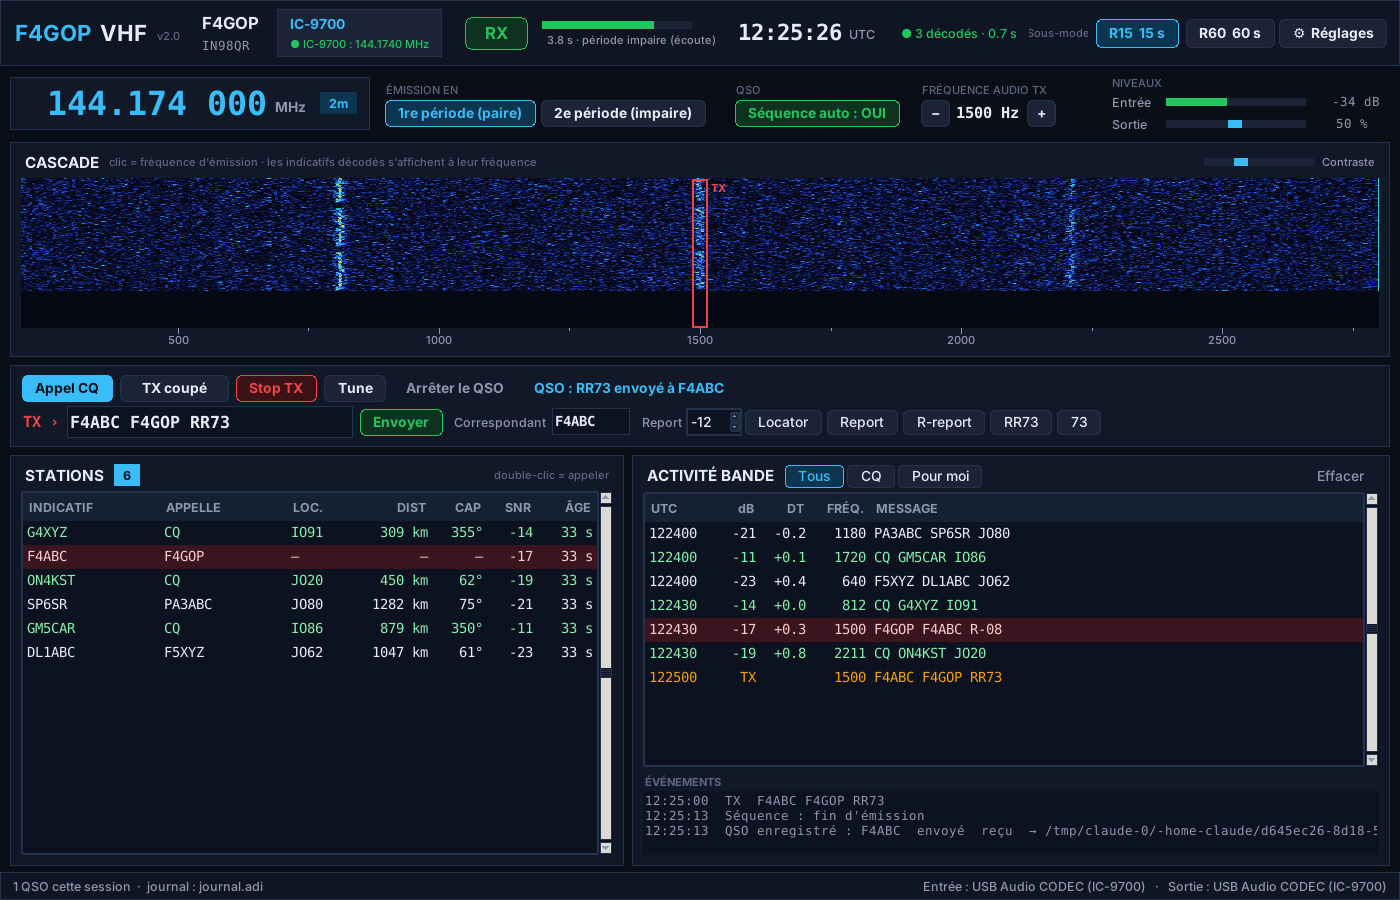
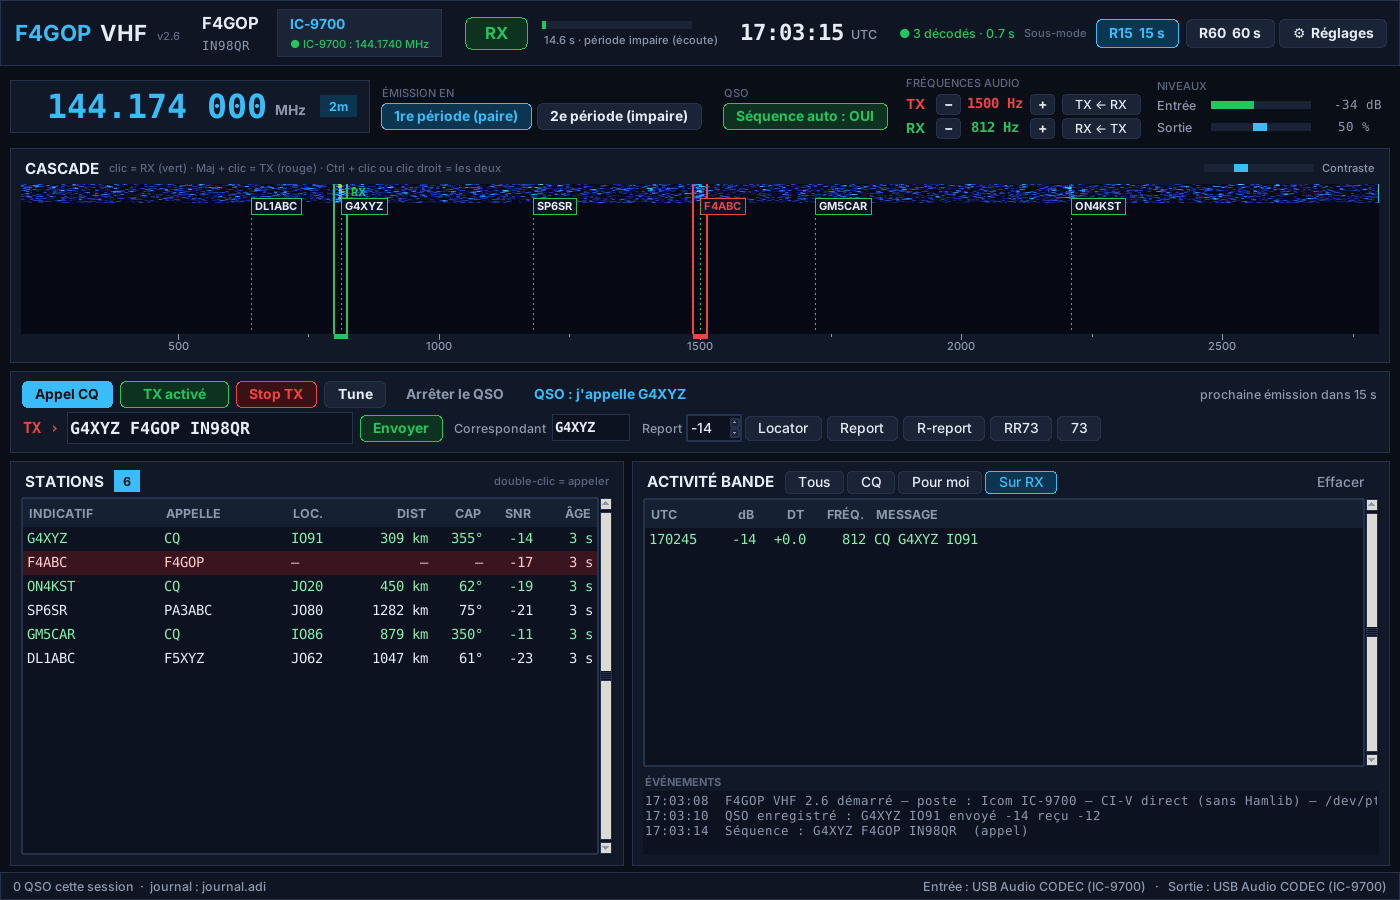
v2.6 : repères TX rouge et RX vert dans la cascade, comme WSJT-X
Clic = RX, Maj+clic = TX, Ctrl+clic ou clic droit = les deux ; double-clic
sur une station = RX sur elle ; boutons TX<-RX et RX<-TX ; filtre
« Sur RX » dans Activité bande.

Claude-Session: https://claude.ai/code/session_01BrhXni9kkUjUtnzQfaapJg

diff --git a/f4gop_vhf.py b/f4gop_vhf.py
@@ -37,7 +37,7 @@ try:
 except Exception:                                  # pas de carte son (tests)
     sd = None
 
-VERSION = "2.5"
+VERSION = "2.6"
 RETARD_MAX_TX = 1.2           # départ d'émission le plus tardif (s)
 TAMPON_S = 130                # secondes d'audio gardées en mémoire
 CASC_FMIN, CASC_FMAX = 200.0, 2800.0
@@ -45,7 +45,7 @@ FICHIER_REGLAGES = os.path.join(os.path.expanduser("~"), ".f4gop_vhf.json")
 
 REGLAGES_DEFAUT = {
     "indicatif": "F4GOP", "locator": "IN98QR", "sous_mode": "R15", "parite": 0,
-    "f_audio": 1500, "niveau": 0.5, "entree_son": "", "sortie_son": "",
+    "f_audio": 1500, "f_rx": 1500, "niveau": 0.5, "entree_son": "", "sortie_son": "",
     "auto": True, "cq_apres": False, "max_rep": 6, "max_cq": 10,
     "adif_mode": "MFSK", "adif_sous_mode": "F4GOP-VHF", "fichier_adif": journal_adif.FICHIER,
     "contraste": 12, "radio": None, "verif_maj": True,
@@ -329,7 +329,7 @@ class Application(tk.Tk):
 
         self.l_sync = tk.Label(z, text="● en attente", bg=C["barre"], fg=C["doux"],
                                font=police(9))
-        self.l_sync.pack(side="left", padx=10)
+        self.l_sync.pack(side="left", padx=6)
 
         self.p_reglages = Pilule(z, "⚙  Réglages", lambda: self.ouvrir_reglages(),
                                  fond_parent=C["barre"], hauteur=30)
@@ -360,7 +360,7 @@ class Application(tk.Tk):
         self.l_bande.pack(side="left", padx=12)
 
         tx = tk.Frame(b, bg=C["fond"])
-        tx.pack(side="left", padx=14)
+        tx.pack(side="left", padx=10)
         tk.Label(tx, text="ÉMISSION EN", bg=C["fond"], fg=C["faible"], font=police(8)).pack(
             anchor="w")
         ligne = tk.Frame(tx, bg=C["fond"])
@@ -374,7 +374,7 @@ class Application(tk.Tk):
         self._maj_parite()
 
         au = tk.Frame(b, bg=C["fond"])
-        au.pack(side="left", padx=10)
+        au.pack(side="left", padx=6)
         tk.Label(au, text="QSO", bg=C["fond"], fg=C["faible"], font=police(8)).pack(anchor="w")
         self.p_auto = Pilule(au, "", self.basculer_auto, hauteur=28)
         self.p_auto.pack(anchor="w")
@@ -382,15 +382,24 @@ class Application(tk.Tk):
 
         fa = tk.Frame(b, bg=C["fond"])
         fa.pack(side="left", padx=10)
-        tk.Label(fa, text="FRÉQUENCE AUDIO TX", bg=C["fond"], fg=C["faible"],
+        tk.Label(fa, text="FRÉQUENCES AUDIO", bg=C["fond"], fg=C["faible"],
                  font=police(8)).pack(anchor="w")
-        lf = tk.Frame(fa, bg=C["fond"])
-        lf.pack(anchor="w")
-        Pilule(lf, "−", lambda: self.decaler_fa(-10), largeur=30, hauteur=28).pack(side="left")
-        self.l_fa = tk.Label(lf, text="", bg=C["fond"], fg=C["texte"], width=8,
-                             font=police(11, True, mono=True))
-        self.l_fa.pack(side="left")
-        Pilule(lf, "+", lambda: self.decaler_fa(10), largeur=30, hauteur=28).pack(side="left")
+        self.l_fa = {}
+        for cle, nom, coul, pas_fn, copie in (
+                ("f_audio", "TX", C["rouge"], self.decaler_fa, ("TX ← RX", self.tx_sur_rx)),
+                ("f_rx", "RX", C["vert"], self.decaler_rx, ("RX ← TX", self.rx_sur_tx))):
+            lf = tk.Frame(fa, bg=C["fond"])
+            lf.pack(anchor="w", pady=1)
+            tk.Label(lf, text=nom, bg=C["fond"], fg=coul, width=3, anchor="w",
+                     font=police(10, True)).pack(side="left")
+            Pilule(lf, "−", lambda f=pas_fn: f(-10), largeur=26, hauteur=22).pack(side="left")
+            l = tk.Label(lf, text="", bg=C["fond"], fg=coul, width=8,
+                         font=police(10, True, mono=True))
+            l.pack(side="left")
+            Pilule(lf, "+", lambda f=pas_fn: f(10), largeur=26, hauteur=22).pack(side="left")
+            Pilule(lf, copie[0], copie[1], hauteur=22, gras=False, taille=9).pack(
+                side="left", padx=(6, 0))
+            self.l_fa[cle] = l
         self._maj_fa()
 
         nv = tk.Frame(b, bg=C["fond"])
@@ -401,7 +410,7 @@ class Application(tk.Tk):
         l1.pack(anchor="w")
         tk.Label(l1, text="Entrée", bg=C["fond"], fg=C["doux"], width=6, anchor="w",
                  font=police(9)).pack(side="left")
-        self.cv_niv = tk.Canvas(l1, width=140, height=8, bg=C["pilule"], highlightthickness=0)
+        self.cv_niv = tk.Canvas(l1, width=100, height=8, bg=C["pilule"], highlightthickness=0)
         self.cv_niv.pack(side="left", padx=4)
         self.l_niv = tk.Label(l1, text="", bg=C["fond"], fg=C["doux"], width=9,
                               font=police(9, mono=True))
@@ -410,7 +419,7 @@ class Application(tk.Tk):
         l2.pack(anchor="w", pady=(2, 0))
         tk.Label(l2, text="Sortie", bg=C["fond"], fg=C["doux"], width=6, anchor="w",
                  font=police(9)).pack(side="left")
-        curseur(l2, self.v_niv, 0.02, 1.0, 140, lambda v: self._maj_niv_tx()).pack(
+        curseur(l2, self.v_niv, 0.02, 1.0, 100, lambda v: self._maj_niv_tx()).pack(
             side="left", padx=4)
         self.l_niv_tx = tk.Label(l2, text="", bg=C["fond"], fg=C["doux"], width=9,
                                  font=police(9, mono=True))
@@ -421,8 +430,8 @@ class Application(tk.Tk):
     def _panneau_cascade(self, parent):
         p = Panneau(parent, "Cascade")
         p.pack(fill="x")
-        tk.Label(p.entete, text="  clic = fréquence d'émission · les indicatifs décodés "
-                 "s'affichent à leur fréquence", bg=C["panneau"], fg=C["faible"],
+        tk.Label(p.entete, text="  clic = RX (vert) · Maj + clic = TX (rouge) · Ctrl + clic "
+                 "ou clic droit = les deux", bg=C["panneau"], fg=C["faible"],
                  font=police(8)).pack(side="left")
         tk.Label(p.entete, text="Contraste", bg=C["panneau"], fg=C["doux"],
                  font=police(8)).pack(side="right")
@@ -433,7 +442,10 @@ class Application(tk.Tk):
         self.cv_casc.pack(fill="x")
         self.img_casc = tk.PhotoImage(width=self.casc_l, height=self.casc_h)
         self.cv_casc.create_image(0, 0, image=self.img_casc, anchor="nw", tags="img")
-        self.cv_casc.bind("<Button-1>", self._clic_cascade)
+        self.cv_casc.bind("<Button-1>", lambda e: self._clic_cascade(e, "rx"))
+        self.cv_casc.bind("<Shift-Button-1>", lambda e: self._clic_cascade(e, "tx"))
+        self.cv_casc.bind("<Control-Button-1>", lambda e: self._clic_cascade(e, "les2"))
+        self.cv_casc.bind("<Button-3>", lambda e: self._clic_cascade(e, "les2"))
         self.cv_casc.bind("<Configure>", self._taille_cascade)
 
     def _taille_cascade(self, ev):
@@ -467,13 +479,20 @@ class Application(tk.Tk):
     def _dessiner_reperes(self):
         cv = self.cv_casc
         cv.delete("repere")
-        fa = float(self.cfg["f_audio"])
         larg = 1.2 * FS / SOUS_MODES[self.cfg["sous_mode"]][1]
-        x0, x1 = self._x_de_f(fa - larg / 2), self._x_de_f(fa + larg / 2)
-        cv.create_rectangle(x0, 2, x1, self.casc_h - 1, outline=C["rouge"], width=2,
-                            tags="repere")
-        cv.create_text(x1 + 4, 10, text="TX", anchor="w", fill=C["rouge"],
-                       font=police(8, True), tags="repere")
+        # comme WSJT-X : RX en vert, TX en rouge (deux traits = largeur du signal)
+        for cle, nom, coul, decal in (("f_rx", "RX", C["vert"], 0), ("f_audio", "TX", C["rouge"], 1)):
+            fc = float(self.cfg[cle])
+            x0, x1 = self._x_de_f(fc - larg / 2), self._x_de_f(fc + larg / 2)
+            if x1 - x0 < 6:                    # R60 : signal étroit, traits écartés pour la lisibilité
+                xm = (x0 + x1) / 2
+                x0, x1 = xm - 3, xm + 3
+            for x in (x0, x1):
+                cv.create_line(x, 0, x, self.casc_h, fill=coul, width=2, tags="repere")
+            cv.create_rectangle(x0, self.casc_h, x1 + 1, self.casc_h + 5, fill=coul, outline="",
+                                tags="repere")
+            cv.create_text(x1 + 4, 8 + 12 * decal, text=nom, anchor="w", fill=coul,
+                           font=police(8, True), tags="repere")
         maintenant = time.time()
         periode = SOUS_MODES[self.cfg["sous_mode"]][0]
         for f, ind, t, moi in self.etiquettes_casc:
@@ -491,12 +510,19 @@ class Application(tk.Tk):
             cv.create_line(x, 14, x, self.casc_h - 1, fill=C["vert"], dash=(2, 3),
                            tags="repere")
 
-    def _clic_cascade(self, ev):
-        if ev.y > self.casc_h:
+    def _clic_cascade(self, ev, quoi):
+        if ev.y > self.casc_h + 18:
             return
         f = CASC_FMIN + ev.x / self.casc_l * (CASC_FMAX - CASC_FMIN)
-        self.cfg["f_audio"] = int(round(f / 10) * 10)
+        f = int(min(2700, max(300, round(f / 10) * 10)))
+        if quoi in ("rx", "les2"):
+            self.cfg["f_rx"] = f
+        if quoi in ("tx", "les2"):
+            self.cfg["f_audio"] = f
         self._maj_fa()
+        if self.filtre == "rx":
+            self.choisir_filtre("rx")
+        return "break"
 
     # ---------------------------------------------------------------- commandes TX
     def _panneau_commandes(self, parent):
@@ -576,7 +602,7 @@ class Application(tk.Tk):
     def _panneau_activite(self, parent):
         p = Panneau(parent, "Activité bande")
         self.p_filtres = {}
-        for cle, nom in (("tous", "Tous"), ("cq", "CQ"), ("moi", "Pour moi")):
+        for cle, nom in (("tous", "Tous"), ("cq", "CQ"), ("moi", "Pour moi"), ("rx", "Sur RX")):
             q = Pilule(p.entete, nom, lambda k=cle: self.choisir_filtre(k), hauteur=24,
                        gras=False, fond_parent=C["panneau"])
             q.pack(side="left", padx=(8 if cle == "tous" else 2, 0))
@@ -633,7 +659,8 @@ class Application(tk.Tk):
                            style="vert" if on else "normal")
 
     def _maj_fa(self):
-        self.l_fa.configure(text=f"{int(self.cfg['f_audio'])} Hz")
+        for cle, l in self.l_fa.items():
+            l.configure(text=f"{int(self.cfg[cle])} Hz")
         if hasattr(self, "cv_casc"):
             self._dessiner_reperes()
 
@@ -686,6 +713,22 @@ class Application(tk.Tk):
     def decaler_fa(self, d):
         self.cfg["f_audio"] = int(min(2700, max(300, int(self.cfg["f_audio"]) + d)))
         self._maj_fa()
+
+    def decaler_rx(self, d):
+        self.cfg["f_rx"] = int(min(2700, max(300, int(self.cfg["f_rx"]) + d)))
+        self._maj_fa()
+        if self.filtre == "rx":
+            self.choisir_filtre("rx")
+
+    def tx_sur_rx(self):
+        self.cfg["f_audio"] = int(self.cfg["f_rx"])
+        self._maj_fa()
+
+    def rx_sur_tx(self):
+        self.cfg["f_rx"] = int(self.cfg["f_audio"])
+        self._maj_fa()
+        if self.filtre == "rx":
+            self.choisir_filtre("rx")
 
     def choisir_filtre(self, k):
         self.filtre = k
@@ -806,11 +849,15 @@ class Application(tk.Tk):
         self.seq.arreter()
         self._appliquer_seq("arrêt demandé")
 
-    def repondre(self, texte, snr, n_periode):
+    def repondre(self, texte, snr, n_periode, f=None):
         mots = texte.split()
         moi = self.cfg["indicatif"].upper()
         if len(mots) < 2 or mots[1] in (moi, "<...>"):
             return
+        if f is not None:
+            # comme WSJT-X : le RX (vert) se place sur la station ; le TX ne bouge pas
+            self.cfg["f_rx"] = int(round(f))
+            self._maj_fa()
         dx = mots[1]
         self.v_dx.set(dx)
         self.v_rep.set(int(snr))
@@ -1068,6 +1115,10 @@ class Application(tk.Tk):
             return
         if self.filtre == "moi" and not (d["moi"] or d["tx"]):
             return
+        if self.filtre == "rx":
+            larg = 1.2 * FS / SOUS_MODES[self.cfg["sous_mode"]][1]
+            if abs(d["f"] - float(self.cfg["f_rx"])) > max(15.0, larg):
+                return
         tag = ("tx",) if d["tx"] else ("moi",) if d["moi"] else ("cq",) if d["cq"] else ()
         if d["tx"]:
             vals = (d["utc"], "TX", "", f"{d['f']:.0f}", d["texte"])
@@ -1123,7 +1174,7 @@ class Application(tk.Tk):
             return
         d = next((x for x in reversed(self.decodes) if x["texte"] == texte and not x["tx"]), None)
         if d:
-            self.repondre(texte, d["snr"], d["n"])
+            self.repondre(texte, d["snr"], d["n"], d["f"])
 
     def _double_clic_station(self, ev):
         ind = self.tv_st.focus()
@@ -1133,7 +1184,7 @@ class Application(tk.Tk):
                   if not x["tx"] and len(x["texte"].split()) >= 2
                   and x["texte"].split()[1] == ind), None)
         if d:
-            self.repondre(d["texte"], d["snr"], d["n"])
+            self.repondre(d["texte"], d["snr"], d["n"], d["f"])
 
     # ================================================================== rafraîchissements
     def _fenetre_casc(self, n):
@@ -1179,7 +1230,7 @@ class Application(tk.Tk):
             self.cv_niv.delete("all")
             u = min(1.0, max(0.0, (niv + 60) / 60))
             coul = C["vert"] if niv < -12 else C["ambre"] if niv < -4 else C["rouge"]
-            self.cv_niv.create_rectangle(0, 0, 140 * u, 8, fill=coul, outline="")
+            self.cv_niv.create_rectangle(0, 0, 100 * u, 8, fill=coul, outline="")
             self.l_niv.configure(text=f"{niv:5.0f} dB" if niv > -150 else "  — dB")
         except (tk.TclError, ValueError):
             pass

diff --git a/README.md b/README.md
@@ -12,6 +12,16 @@ l'aide d'une intelligence artificielle (Claude, d'Anthropic).
 
 ![F4GOP VHF 2.0](captures/fenetre_principale.png)
 
+## Repères TX rouge / RX vert, comme WSJT-X (depuis la version 2.6)
+
+- **Clic** dans la cascade : fréquence de **réception** (trait vert).
+- **Maj + clic** : fréquence d'**émission** (trait rouge).
+- **Ctrl + clic** ou **clic droit** : les deux à la fois.
+- **Double-clic sur une station** : le RX se place sur elle (le TX ne
+  bouge pas) ; boutons **TX ← RX** et **RX ← TX** pour les aligner.
+- Filtre **« Sur RX »** dans Activité bande : seulement les messages
+  reçus sur la fréquence RX.
+
 ## Spectre propre : GMSK (depuis la version 2.4)
 
 La modulation est une **GMSK BT = 0,5** : la MSK d'origine lissée par un
